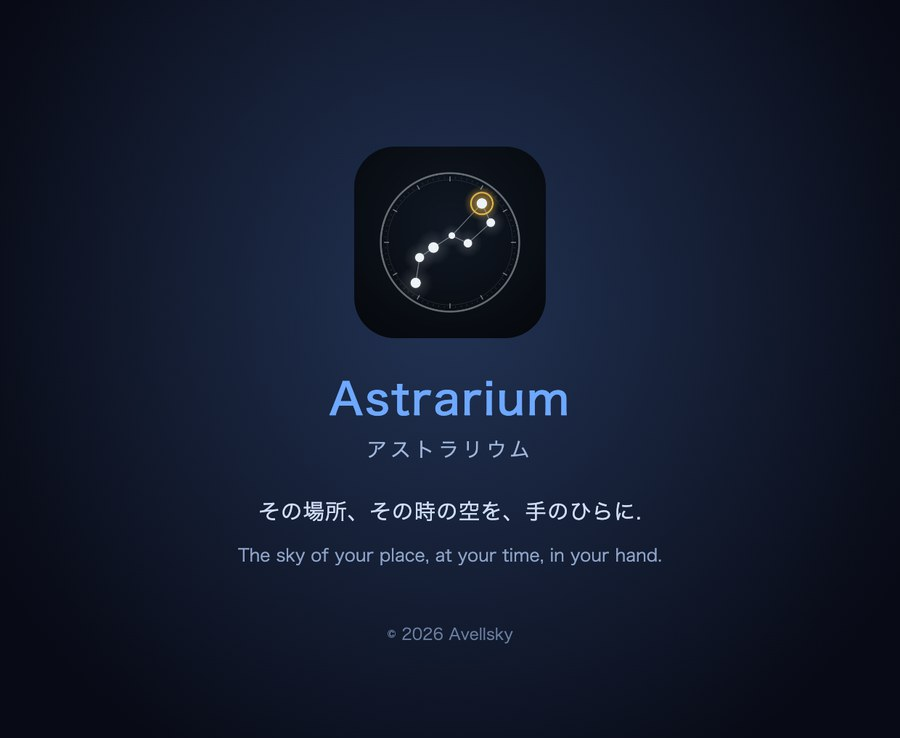
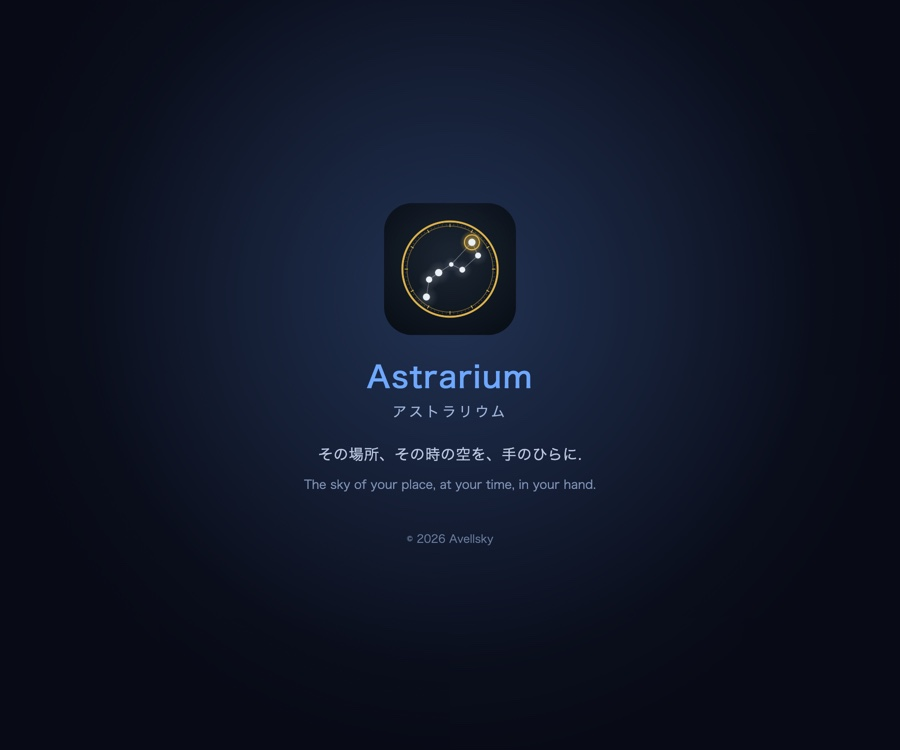
公開ページ: マニュアルを 2.1 に揃える
Pro が本体へ合流し、別売のアプリが無くなった (2026-09-24)。
「2.0/PRO 1.0 対応」を「2.1 対応」に、比較表の見出しを
「無料版 / Pro 版」から「購読なし / Pro（購読）」に改めた。

起動画面は**一枚にした**。並べて見せる相手がいない。図も撮り直して
いる — 載っていたものはアイコンが灰色の環のままで、いま配っている
ものと違う画だった。使わなくなった opening-pro.jpg は消す。

PDF の表の「対応」も 2.1 へ。**Android だけ 2.0 のまま** — あちらは
合流させていないので、上げると嘘になる。

diff --git a/manual/index.html b/manual/index.html
@@ -43,7 +43,7 @@
     border: 1px solid rgba(255,255,255,.14); }
   figcaption { font-size: 12px; color: #8990a3; margin-top: 6px;
     text-align: center; }
-  /* 起動画面は 2 枚並べる。無料版と Pro 版の違いは、まずここに出る */
+  /* 起動画面は 2 枚並べる。錠の掛かった状態と、購読で開いた状態 */
   .two { display: flex; gap: 14px; flex-wrap: wrap; }
   .two figure { flex: 1 1 300px; margin: 8px 0; }
   /* 画面の一覧。細い縦画面が並ぶので、幅で折り返す */
@@ -59,8 +59,8 @@
 
 <p class="logo"><img src="../icon.png" alt="" width="72" height="72"></p>
 <h1>Astrarium（アストラリウム）</h1>
-<div class="sub">星図とプラネタリウム — 使用マニュアル（2.0/PRO 1.0 対応）/
-Planisphere &amp; planetarium — user manual (for 2.0/PRO 1.0)</div>
+<div class="sub">星図とプラネタリウム — 使用マニュアル（2.1 対応）/
+Planisphere &amp; planetarium — user manual (for 2.1)</div>
 <div class="nav">
   <a href="#ja">日本語</a><a href="#en">English</a>
   <a href="#dl">マニュアル / Manuals</a>
@@ -68,13 +68,10 @@ Planisphere &amp; planetarium — user manual (for 2.0/PRO 1.0)</div>
   <a href="../privacy-policy.ja.html">プライバシー / Privacy</a>
 </div>
 
-<div class="two">
-  <figure><img src="img/opening.jpg" alt="Astrarium の起動画面" loading="lazy">
-    <figcaption>起動画面（無料版）/ The opening (free edition)</figcaption></figure>
-  <figure><img src="img/opening-pro.jpg" alt="Astrarium Pro の起動画面"
-      loading="lazy">
-    <figcaption>起動画面（Pro 版）/ The opening (Pro edition)</figcaption></figure>
-</div>
+<!-- **一枚にした** (2026-09-25)。Pro が本体へ合流し、別売のアプリが
+     無くなったので、並べて見せる相手がいない。 -->
+<p class="logo"><img src="img/opening.jpg" alt="Astrarium の起動画面"
+    loading="lazy" style="max-width:min(540px,100%);border-radius:8px"></p>
 
 <h2 id="ja">Astrarium とは</h2>
 <p>観測地と日時を決めれば、<b class="k">その場所・その時刻の空をそのまま描く</b>
@@ -143,12 +140,13 @@ Planisphere &amp; planetarium — user manual (for 2.0/PRO 1.0)</div>
 </div>
 
 <h2>Astrarium Pro で増えるもの</h2>
-<p>太陽系3Dマップ・オーロラ予報・固有運動タイムマシン・深宇宙星表は、別売のアプリ
-<b class="k">Astrarium Pro</b> の機能です。画面の作りも操作も無料版と同じで、入口も
-同じ場所にあります（無料版では、押すと何ができるかの説明が出ます）。
-<b>人工衛星と AR は無料版でも使えます</b> — 人工衛星は宇宙ステーションと肉眼で
-見える衛星（4 等まで）までで、Pro 版はそこに残りの衛星群と世界地図・地球儀、
-名前・ID での検索が加わります。</p>
+<p>太陽系3Dマップ・オーロラ予報・固有運動タイムマシン・深宇宙星表は、
+<b class="k">Astrarium Pro</b>（アプリ内課金）の機能です。2.1 から、別売の
+アプリではなく<b>同じアプリの中の購読</b>になりました。入口は施錠された状態で
+同じ場所にあり、押すと何が増えるのかと値段が出ます。
+<b>AR は購読しなくても使えます</b>。人工衛星も、宇宙ステーションと肉眼で
+見える衛星（4 等まで）までは課金の外にあり、Pro はそこに残りの衛星群と
+世界地図・地球儀、名前・ID での検索が加わります。</p>
 
 <div class="shots">
   <figure><img src="img/pro-ssd.jpg" alt="太陽系3Dマップ" loading="lazy">
@@ -174,7 +172,7 @@ Planisphere &amp; planetarium — user manual (for 2.0/PRO 1.0)</div>
 </div>
 
 <table>
-<tr><th>機能</th><th>無料版</th><th class="pro">Pro 版</th></tr>
+<tr><th>機能</th><th>購読なし</th><th class="pro">Pro（購読）</th></tr>
 <tr><td>星図・惑星・流星群・彗星・イベント・出力</td><td>○</td><td class="pro">○</td></tr>
 <tr><td>イベント検索（次の／1 日〜10 年、過去も未来も）</td><td>○</td>
     <td class="pro">○</td></tr>
@@ -202,23 +200,23 @@ Planisphere &amp; planetarium — user manual (for 2.0/PRO 1.0)</div>
 <h2 id="dl">使用マニュアル（PDF）</h2>
 <table class="dl">
 <tr><th>版</th><th>対応</th><th>日本語</th><th>English</th></tr>
-<tr><td>Astrarium（iPhone / iPad）</td><td>2.0</td>
+<tr><td>Astrarium（iPhone / iPad）</td><td>2.1</td>
     <td><a href="astrarium-manual-ja.pdf">PDF</a></td>
     <td><a href="astrarium-manual-en.pdf">PDF</a></td></tr>
 <tr><td>Astrarium（Android）</td><td>2.0</td>
     <td><a href="astrarium-manual-android-ja.pdf">PDF</a></td>
     <td><a href="astrarium-manual-android-en.pdf">PDF</a></td></tr>
-<tr><td>Astrarium（Mac）</td><td>2.0</td>
+<tr><td>Astrarium（Mac）</td><td>2.1</td>
     <td><a href="astrarium-manual-mac-ja.pdf">PDF</a></td>
     <td><a href="astrarium-manual-mac-en.pdf">PDF</a></td></tr>
-<tr><td class="pro">Astrarium Pro（iPhone / iPad）</td><td>1.0</td>
+<tr><td class="pro">Astrarium Pro（アプリ内課金）</td><td>2.1</td>
     <td><a href="astrarium-pro-manual-ja.pdf">PDF</a></td>
     <td><a href="astrarium-pro-manual-en.pdf">PDF</a></td></tr>
 </table>
 <p>画面の見かた、操作、流星群の出現数の計算、極軸合わせ、PNG／PDF 出力まで、
 実機の画面を添えて説明しています。Mac 版は右パネルの構成とマウス・トラックパッドの
-操作に合わせた別冊です。Pro 版には太陽系3Dマップ・オーロラ予報・固有運動タイムマシン・深宇宙星表の章が
-加わります。</p>
+操作に合わせた別冊です。Pro のマニュアルには太陽系3Dマップ・オーロラ予報・
+固有運動タイムマシン・深宇宙星表の章が加わります。</p>
 <p>Android 版は画面が iPhone / iPad 版と同じなので、本文もほぼ共通です。
 違うのは<b>書き出したものの行き先</b>（星図の PNG と AR の撮影は
 「Pictures／Astrarium」、PDF は「ダウンロード／Astrarium」。共有フォルダなので
@@ -258,15 +256,16 @@ with their bearing and altitude, the next satellite pass and any shower running 
 and a star chart holding the whole sky in one disc, which the Digital Crown moves
 up to twelve hours either way. Chapter 12 of the iPhone and iPad manual covers
 it.</p>
-<p><b class="k">Astrarium Pro</b>, a separate app, adds the 3D solar system map
+<p><b class="k">Astrarium Pro</b>, an in-app subscription, adds the 3D solar system map
 (1.56 million small bodies, the comets and the spacecraft), the aurora forecast
 (NASA DONKI and NOAA OVATION), the proper-motion time machine (50,000 years
 either way), the deep star catalogue (UCAC4, 2.34 million stars to 12th
 magnitude), exoplanet transits, variable-star maxima and minima, the equidistant
-projection for planetarium domes and local sidereal time. Satellites and AR are
-in the free edition too — the free one carries the space stations and the
-naked-eye satellites down to magnitude 4, and Pro adds the remaining groups, the
-world map and globe, and search by name.</p>
+projection for planetarium domes and local sidereal time. From 2.1 it is an
+in-app subscription rather than a separate app; the entry points stay where they
+are, locked, and show what they add and what it costs. AR needs no subscription,
+and neither do the space stations and the naked-eye satellites down to magnitude
+4 — Pro adds the remaining groups, the world map and globe, and search by name.</p>
 
 <footer>
 Astrarium © 2026 Avellsky ／
